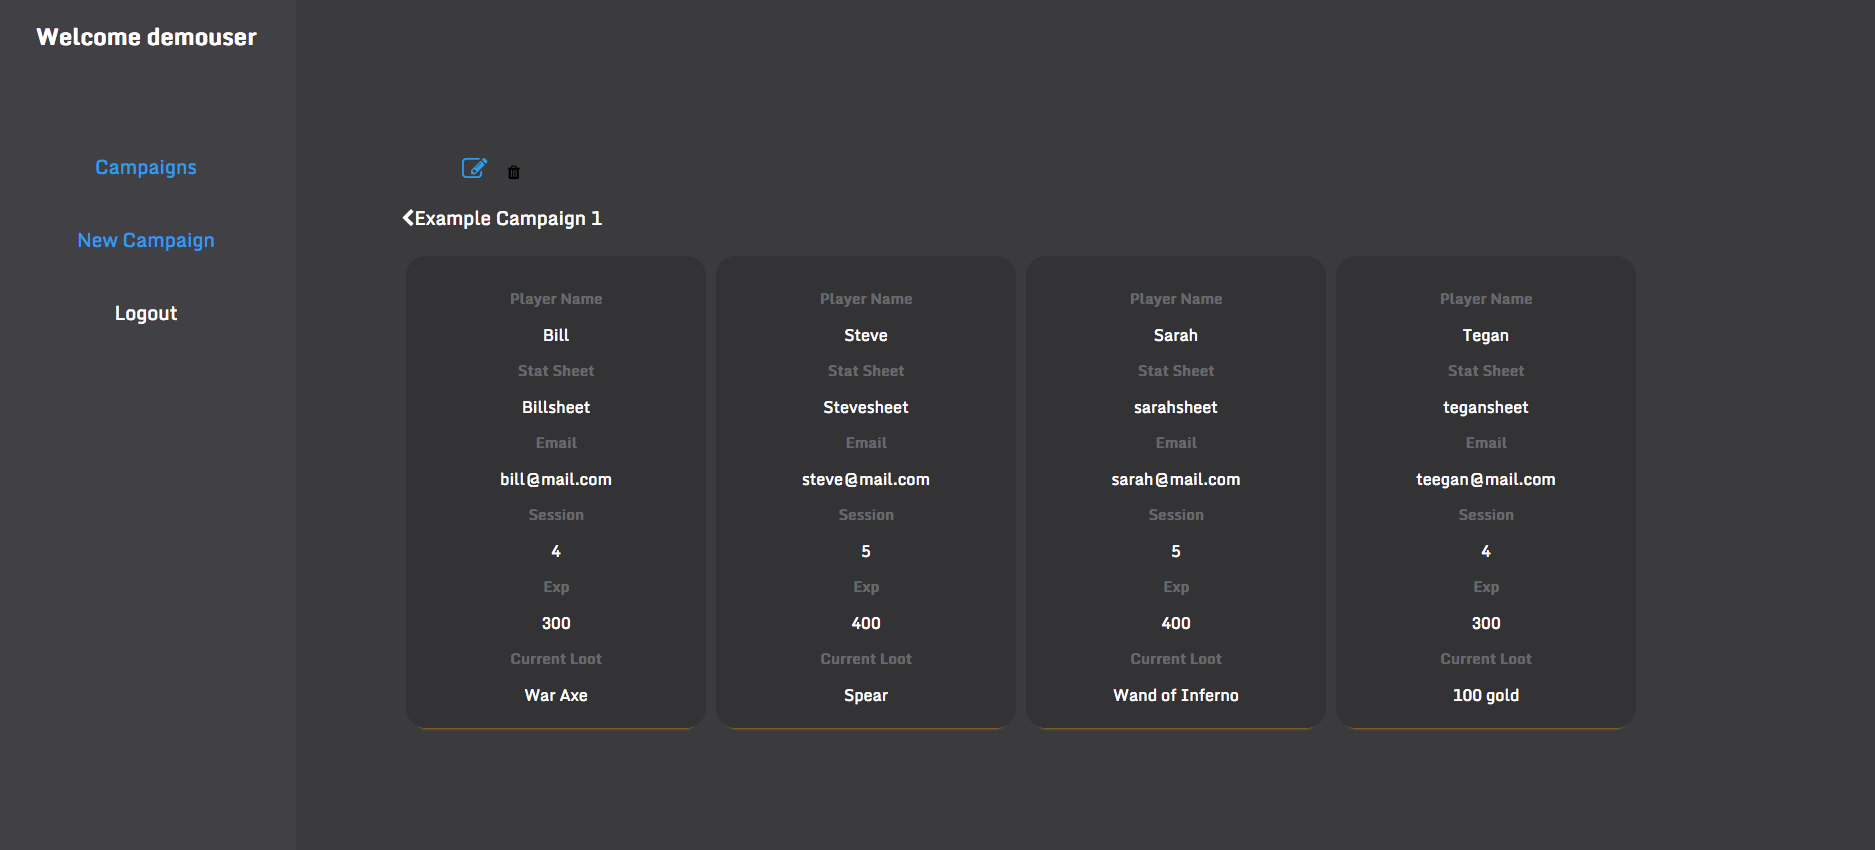
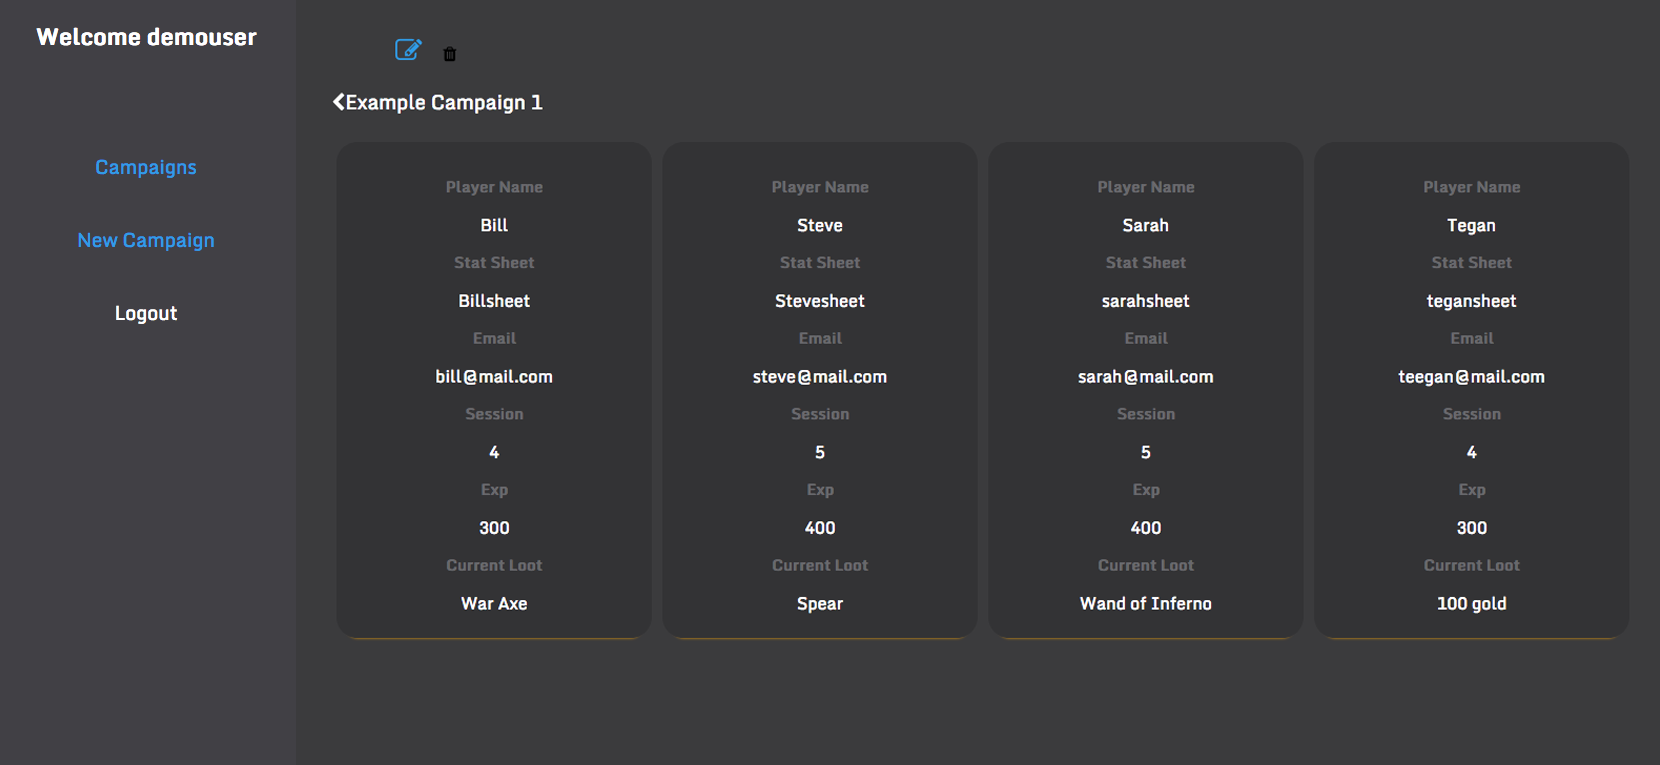
updated images on home page

diff --git a/public/index.html b/public/index.html
@@ -48,25 +48,22 @@
         </main>
         <article class="nested">
             <div class="sidebar-1">
-                <h2>The Problem</h2>
+                <h2>Introduction</h2>
                 <p>
-                    Most player systems like roll20 or the usual pen and paper method of playing D&D leave openings for players to manipulate
-                    information between sessions. Keeping track of multiple groups and their respective sets of information
-                    can be time consuming and often prone to errors if there's too much to handle. In most cases, as a campaign
-                    manager your biggest issue lies in combing through player submissions to find their information which
-                    can extend the amount of time spent in game looking information up rather than managing the actual session.
+                    Minion Manager's focus is on retaining information from players between sessions. This app is meant to be used alongside
+                    other applications or pen/paper methods. The app provides an 'at a glance' representation of the most important information players have to offer while removing
+                    their ability to tamper with the data between sessions.
                 </p>
             </div>
             <div class="content-1">
                 <img src="./img/inkeeper.jpg" class="demopic inkeeper">
             </div>
             <div class="sidebar-2">
-                <h2>The Solution</h2>
+                <h2>Record Player Data</h2>
                 <p>
-                    Minion Manager was developed to provide campaign managers a visual way to organize players into groups. Each player block
-                    contains quick references to what matters most to managers. Things like a player's name, email address,
-                    the number of sessions they've attended, the experience they were last awarded, and their current loot
-                    are all available at a glance.
+                    For each member of the campaign there's a block with their player name, statsheet link, email address, session number, experience, and current loot.
+                    Fill in the fields and update them when needed. Only place the most important
+                    information to you, no pre-scripted drop box selections here!
                 </p>
             </div>
             <div class="content-2">
@@ -75,38 +72,34 @@
             <div class="sidebar-3">
                 <h2>Manage campaigns visually</h2>
                 <p>
-                    Minion Manager was developed to provide campaign managers a visual way to organize players into groups. Each player block
-                    contains quick references to what matters most to managers. Things like a player's name, email address,
-                    the number of sessions they've attended, the experience they were last awarded, and their current loot
-                    are all available at a glance.
+                    Campaign blocks populate the campaigns page providing quick
+                    visual representations of the campaigns without the need 
+                    for spreadsheets or the distraction of a board game ui.
                 </p>
             </div>
             <div class="content-3">
-                <img src="./img/demo-sample.png" class="demopic sample">
+                <img src="./img/organization.png" class="demopic sample">
             </div>
             <div class="sidebar-4">
-                <h2>Flexible player blocks</h2>
+                <h2>Manage players and their info</h2>
                 <p>
-                    Minion Manager was developed to provide campaign managers a visual way to organize players into groups. Each player block
-                    contains quick references to what matters most to managers. Things like a player's name, email address,
-                    the number of sessions they've attended, the experience they were last awarded, and their current loot
-                    are all available at a glance.
+                    Editing players allows you to quickly update their info,
+                    remove inactive players, add new players or remove the
+                    campaign alltogether. Things like session count, exp tracking, and email addresses all provide a quick method of getting player information without providing 
+                    players an open method of manipulating the data between sessions.
                 </p>
             </div>
             <div class="content-4">
-                <img src="./img/demo-sample.png" class="demopic sample">
+                <img src="./img/editing.png" class="demopic sample">
             </div>
             <div class="sidebar-5">
-                <h2>Update campaigns on the fly</h2>
+                <h2>Create campaigns on the fly</h2>
                 <p>
-                    Minion Manager was developed to provide campaign managers a visual way to organize players into groups. Each player block
-                    contains quick references to what matters most to managers. Things like a player's name, email address,
-                    the number of sessions they've attended, the experience they were last awarded, and their current loot
-                    are all available at a glance.
+                    Create and manage your campaigns either on Desktop, mobile or tablet.
                 </p>
             </div>
             <div class="content-5">
-                <img src="./img/demo-sample.png" class="demopic sample">
+                <img src="./img/portable.png" class="demopic sample">
             </div>
         </article>
     </div>

diff --git a/public/css/account-styles.css b/public/css/account-styles.css
@@ -135,6 +135,7 @@ nav h1 {
 .campaign-buttons {
   width: 380px;
   z-index: 1;
+  text-align: left;
 }
 .campaign {
   width: 300px;
@@ -759,7 +760,7 @@ rect {
   .title {
     position: absolute !important;
     left: 323px !important;
-    top: 120px !important;
+    top: 155px !important;
     z-index: 1;
   }
   .c-title.active {

diff --git a/public/css/grid.css b/public/css/grid.css
@@ -3,7 +3,6 @@
   grid-template-columns: repeat(12, 1fr);
   grid-auto-rows: minmax(100px, auto);
   margin: 0 auto;
-  margin-top: 5%;
   max-width: 1080;
 
 }
@@ -21,6 +20,7 @@ article {
   grid-template-columns: minmax(100px, auto);
   grid-row-gap: 20px;
   min-width: 1080px;
+  margin-bottom: 2%;
 }
 .sidebar-1,
 .sidebar-2,

diff --git a/public/css/styles.css b/public/css/styles.css
@@ -230,8 +230,3 @@ form input {
     border-radius: 20px;
   }
 }
-@media only screen and (min-width: 1234px) {
-  .button-container {
-    padding: 0px 39%;
-  }
-}
